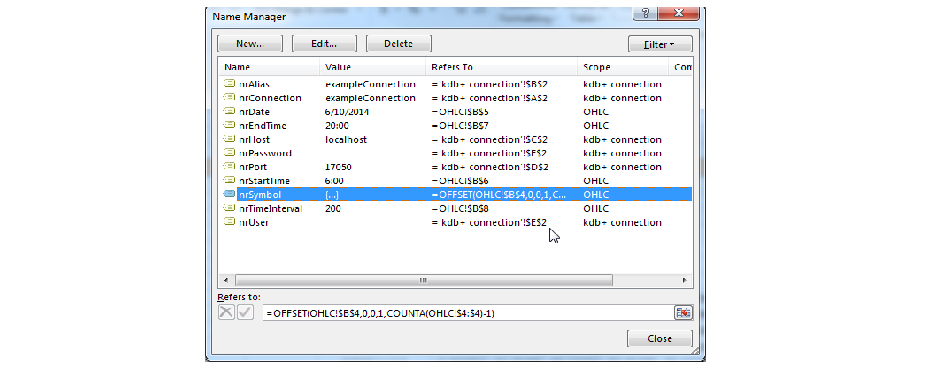
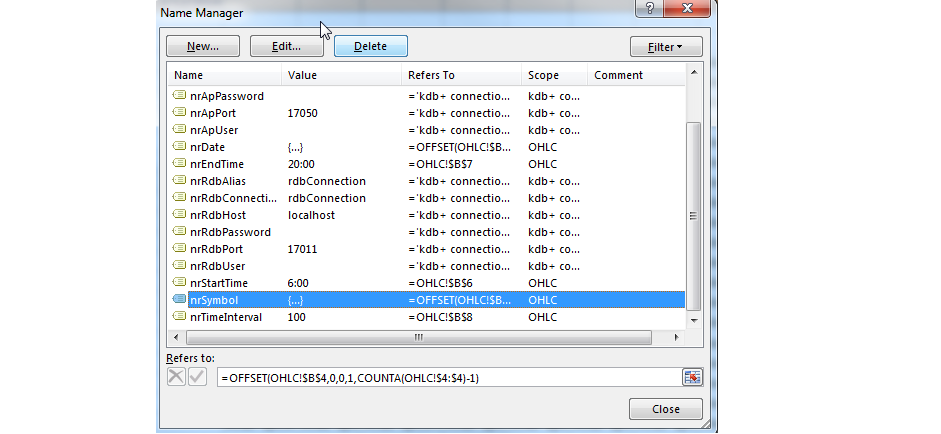
Changed the picture for Named Range formula and added code example.

Changed region(s): [[0.1541, 0.0, 0.7705, 1.0]]

diff --git a/doc/Tutorial/Lesson01/README.md b/doc/Tutorial/Lesson01/README.md
@@ -102,7 +102,12 @@ For getting results, we again use `qQuery` function. This time we need to provid
 proper `q` types. We use `qAtom` for converting scalars and `qList` for converting the list. Documentation of all
 conversion functions is available [here](../../Worksheet-VBA-API-Functions.md).
 
-`nrSymbol` Named Range formula is defined in the special way. It results in automatic expanding of the Named Range `nrSymbol` any time we add new symbol on the right side of the current range. We do the same for date. 
+`nrSymbol` Named Range formula is defined in the specific way. It results in automatic expanding of the Named Range `nrSymbol` any time we add new symbol on the right side of the current range. We use the
+same convention for `nrDate`. 
+
+```
+=OFFSET(OHLC!$B$4,0,0,1,COUNTA(OHLC!$4:$4)-1)
+```
 
 ![qRangeFormula](../Lesson01/img/qRangeFormula.png)
 
